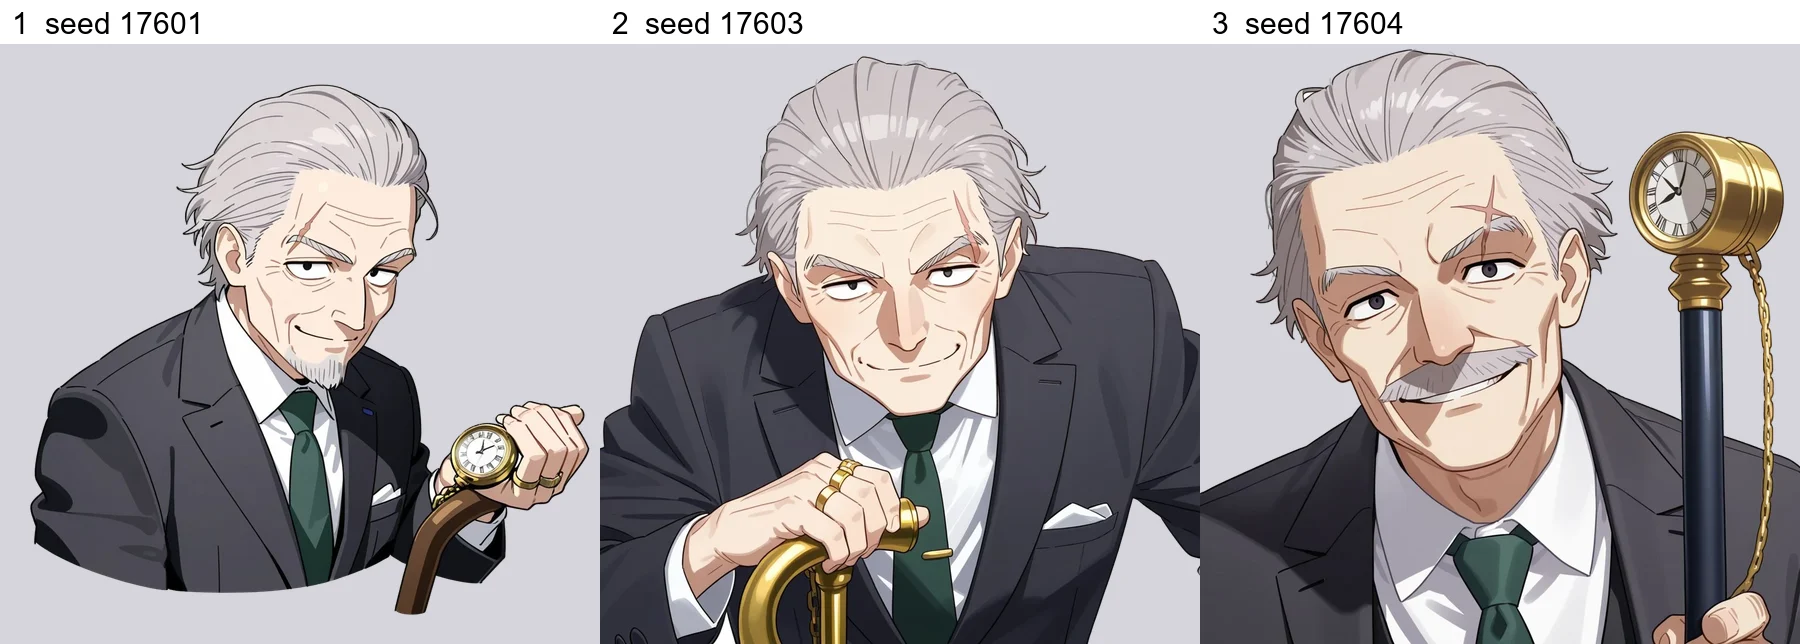
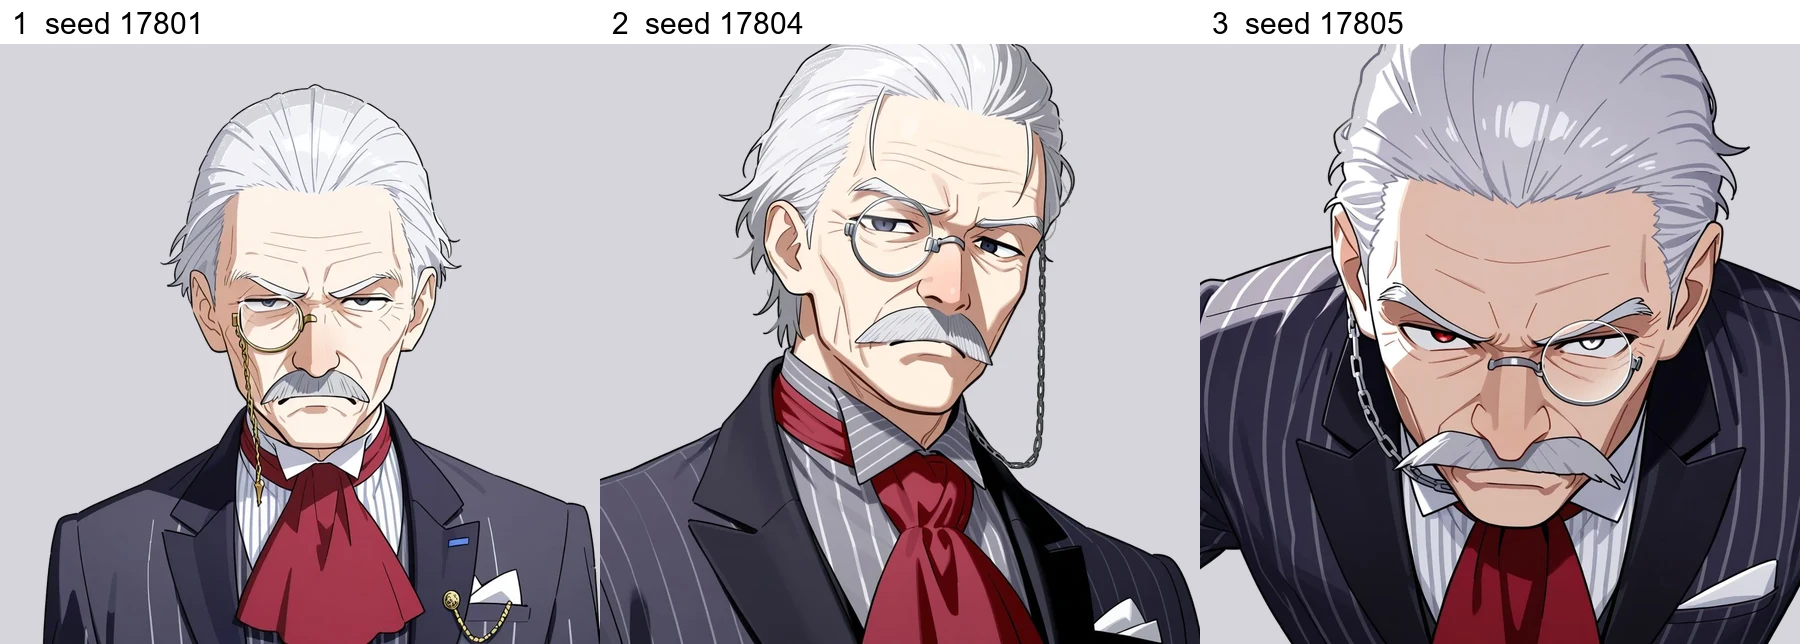
ひなた（少し芋っぽく）・竹之内（持ち主の人物像の特徴で）の候補を作り直す（透過済み）
Claude-Session: https://claude.ai/code/session_011Kp4AbAXdzXbnvYnjXXoLh

diff --git a/docs/art/gen/gen_owners.py b/docs/art/gen/gen_owners.py
@@ -127,6 +127,11 @@ V37 = [
 for k, v in enumerate(V37):
     P[f"ilona{61 + k:02d}"] = ("f", I37 + ", " + v + ", " + HS[k % len(HS)],
                                ", (child:1.5), (loli:1.5), (cleavage:1.5), (animal ears:1.6), (tail:1.5), (horse:1.4), (black hair:1.3), (flower wreath:1.6), (flowers in hair:1.5), (cat:1.4), (orange hair:1.7), (green hair:1.7), (blonde hair:1.5)" + NEGI)
+# 2026-10-22 5 回目：ひなたは少し芋っぽく、竹之内は持ち主の人物像（特徴だけ）で
+P["hinata"] = ("f", "1girl, adult, 26 years old, (large breasts:1.2), (unrefined country woman:1.4), (rustic:1.3), (plain looking:1.2), (no makeup:1.4), (tanned skin:1.3), (red cheeks:1.3), (thick eyebrows:1.4), (black hair:1.5), (simple single braid over shoulder:1.3), (messy stray hairs:1.2), brown eyes, gentle eyes, (green apron:1.3), (frumpy plain work clothes:1.3), (baggy beige long-sleeved shirt:1.2), buttoned up, rolled sleeves, (towel around neck:1.1), holding a wicker basket, warm big-sister smile",
+               ", (child:1.5), (loli:1.5), (animal ears:1.8), (dog ears:1.8), (makeup:1.5), (lipstick:1.5), (eyeshadow:1.4), (cleavage:1.6), (bare shoulders:1.4), (open clothes:1.4), (revealing clothes:1.5), (brown hair:1.4), (red hair:1.3), (glamorous:1.3), (hair over one eye:1.4), (wheat field:1.5), outdoors, landscape")
+P["takenouchi"] = ("f2", "1boy, male focus, (old man:1.4), (elderly:1.2), 68 years old, (thin:1.3), slender, wrinkles, (silver white hair slicked back:1.4), (grey mustache:1.3), (rimless monocle with thin chain:1.3), (sharp cold eyes:1.4), (stern expression:1.3), closed mouth, (dark navy three-piece suit:1.4), (red ascot:1.4), (pinstripe shirt:1.3), (white pocket square:1.3), dignified, (butler-like elegance:1.2), seasoned, intimidating calm",
+                   ", (child:1.6), (young:1.4), (1girl:1.5), (female:1.4), (breasts:1.4), (beard:1.4), (fat:1.4), (smile:1.3), (kimono:1.3), (sunglasses:1.4), (cane:1.2)")
 who_list, seeds = sys.argv[1].split(","), [int(s) for s in sys.argv[2].split(",")]
 out = sys.argv[3] if len(sys.argv) > 3 else "."
 os.makedirs(out, exist_ok=True)
